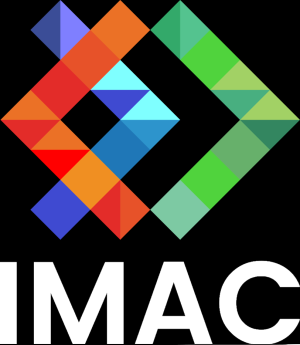
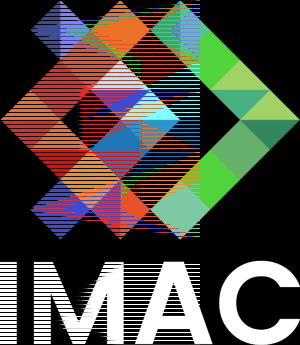
BEG pixelSorting

diff --git a/src/main.cpp b/src/main.cpp
@@ -561,19 +561,19 @@ void differenceDeGaussiennes (std::vector<std::vector<float>> kernel1, int width
 
 void pixelSorting(sil::Image image)
 {
-    int pxToSortStart{0};
-    int sortedRow {200};
-    int gap{500};
+    int sortedRow = random_int(20, 200);
+    int gap = random_int(100, 1000);
 
-    for (int pxPosition{0}; pxPosition < image.height()*image.width() - image.width(); pxPosition+=image.width())
+    for (int pxPosition{0}; pxPosition < image.height()*image.width(); pxPosition+= sortedRow + gap)
     {
-        std::sort(image.pixels().begin() + pxPosition, image.pixels().begin() + pxPosition + image.width(), [](glm::vec3 const& color1, glm::vec3 const& color2)
+        std::sort(image.pixels().begin() + pxPosition, image.pixels().begin() + pxPosition + sortedRow, [](glm::vec3 const& color1, glm::vec3 const& color2)
         {
             return ((color1.r + color1.g + color1.b) / 3) < ((color2.r + color2.g + color2.b) / 3);
         });
+        int gap = random_int(100, 1000);
+        int sortedRow = random_int(20, 200);
     }
-
-    image.save("output/25_pixelSort.png");
+    image.save("output/25_pixelSorting.png");
 }
 
 int main()
